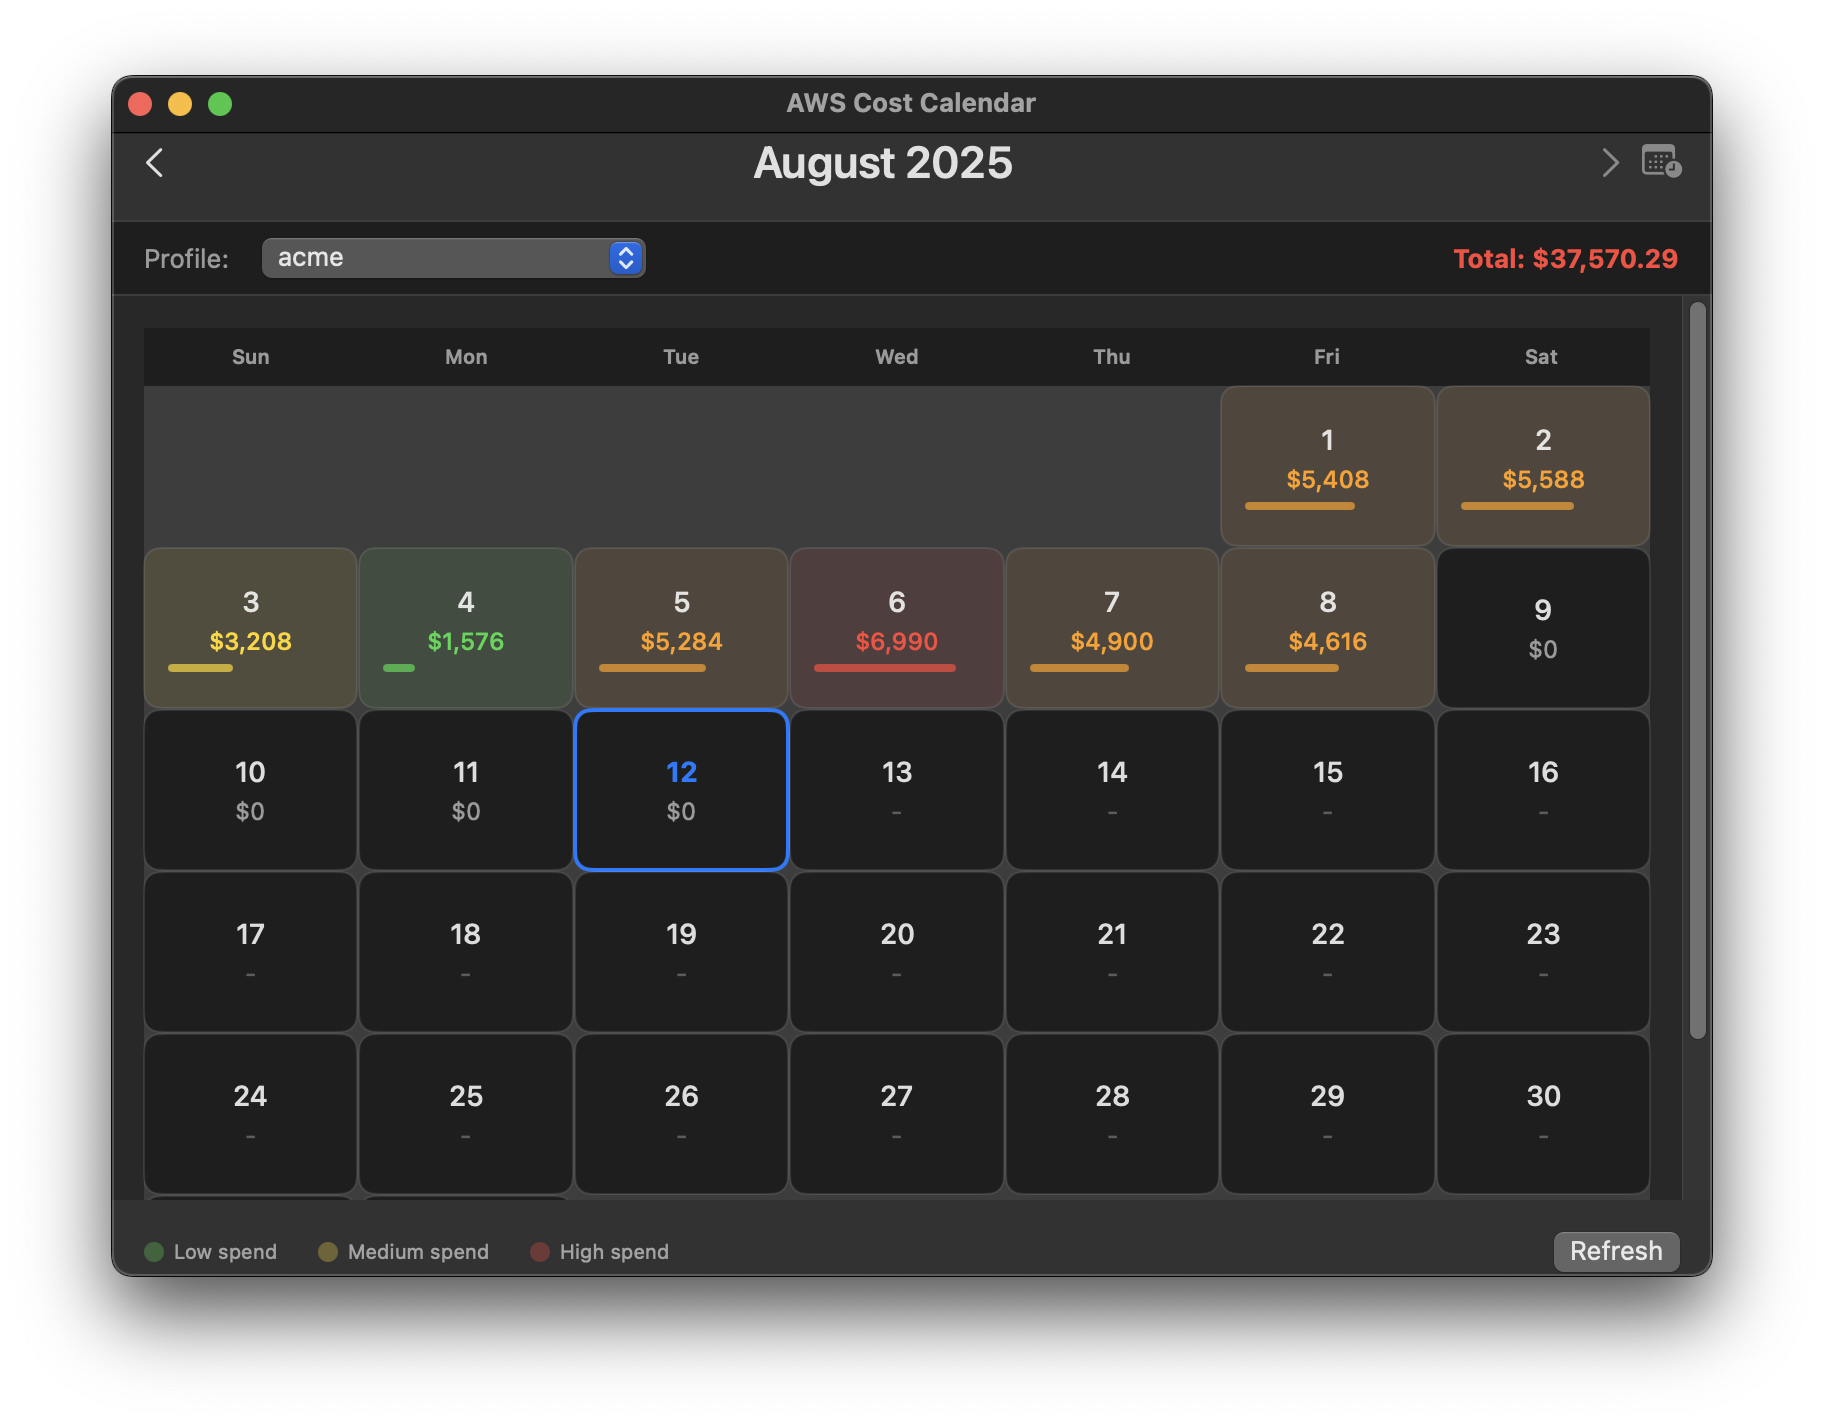
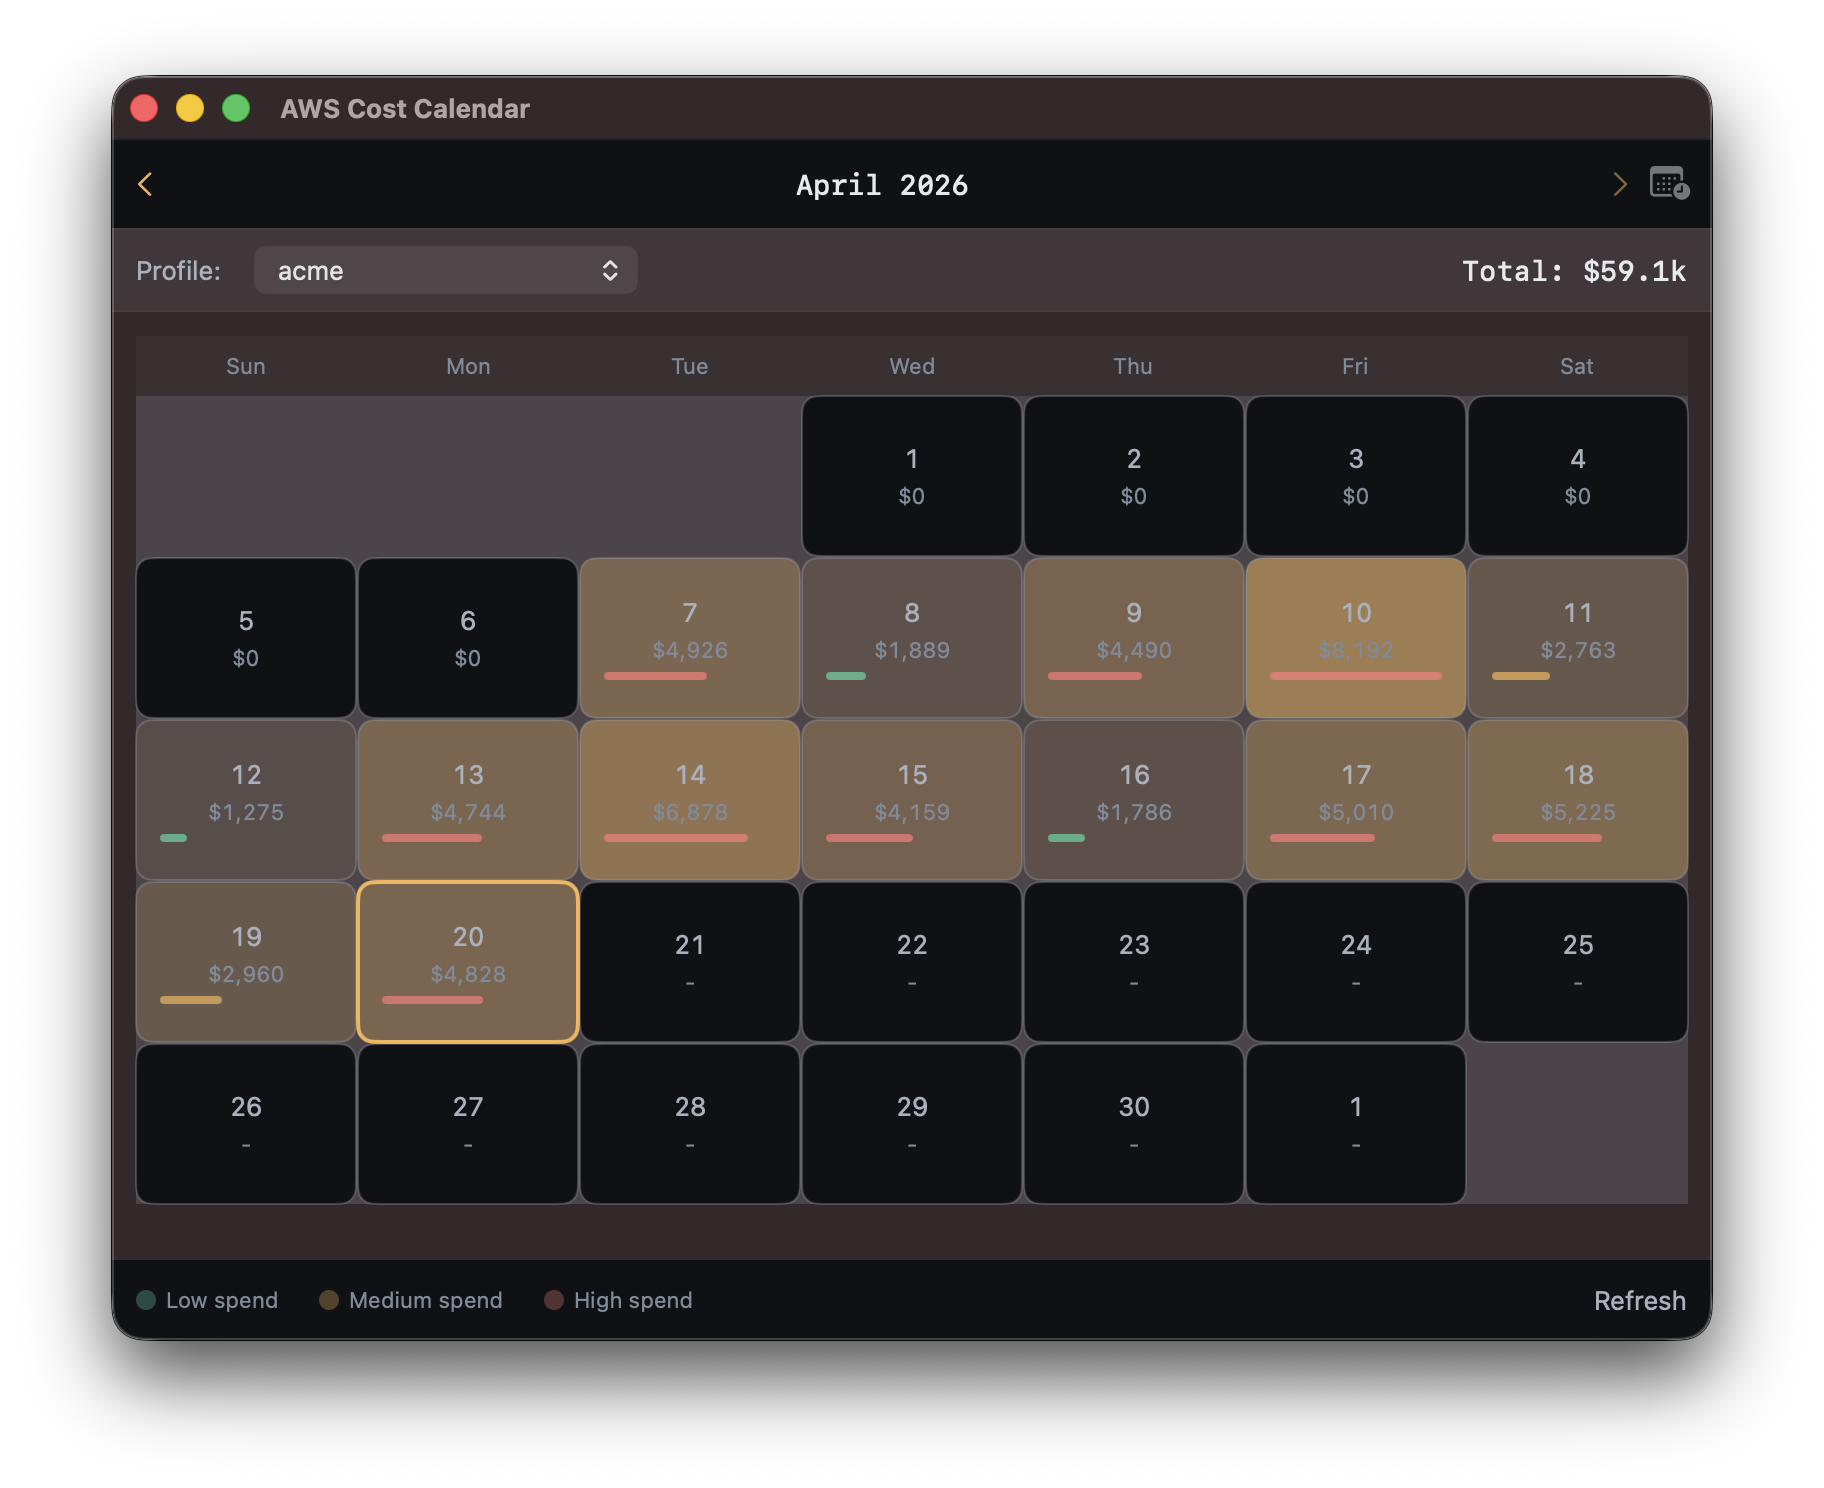
chore(website): refresh screenshot gallery for v1.5 (Ledger)
Replace outdated screenshots with Ledger-era captures and retarget the
gallery entries to match the new appearance tab and menu-bar pill.

- Re-shoot main-interface, calendar-view, day-detail-donut,
  settings-refresh-rate, help-getting-started
- Add menubar-pill (accent-themed chip with sparkline)
- Add settings-appearance (Ledger's four-axis appearance tab)
- Remove settings-display-format (superseded by settings-appearance)
- Remove stale image.png
- ImageMagick -strip + compression-level=9 shaves ~36% off PNG sizes

diff --git a/packages/website/src/components/Screenshots.jsx b/packages/website/src/components/Screenshots.jsx
@@ -27,20 +27,28 @@ const screenshots = [
     features: ["Interactive donut charts", "Click histogram bars for daily view", "Service cost breakdown", "Smart service grouping"]
   },
   {
+    title: "Menu Bar Pill with Sparkline",
+    description: "An at-a-glance MTD chip in your menu bar, accent-colored with an inline 14-day sparkline and luminance-aware ink that stays legible on any background",
+    image: "/AWSCostMonitor/screenshots/menubar-pill.png",
+    width: 2000,
+    height: 1125,
+    features: ["Accent-colored pill", "Inline 14-day sparkline", "Auto black/white ink"]
+  },
+  {
     title: "Settings - Refresh Rate",
-    description: "Configure intelligent refresh rates based on your budget and spending patterns",
+    description: "Configure a per-profile refresh interval. Auto-refresh is always on and each profile tracks its own last-fetch.",
     image: "/AWSCostMonitor/screenshots/settings-refresh-rate.png",
     width: 2000,
     height: 1125,
-    features: ["Smart refresh rates", "API usage tracking", "Budget-based polling"]
+    features: ["Per-profile interval", "Budget-aware tightening", "Always-on refresh"]
   },
   {
-    title: "Settings - Display Format",
-    description: "Customize how costs appear in your menu bar with various formatting options",
-    image: "/AWSCostMonitor/screenshots/settings-display-format.png",
+    title: "Settings - Appearance",
+    description: "Tune Ledger's four independent axes — Accent, Density, Contrast, and Color Scheme — from a single consolidated tab",
+    image: "/AWSCostMonitor/screenshots/settings-appearance.png",
     width: 2000,
     height: 1125,
-    features: ["Currency formatting", "Display modes", "Visual customization"]
+    features: ["Four orthogonal axes", "WCAG AAA contrast mode", "Accent: Amber / Mint / Plasma / Bone / System"]
   },
   {
     title: "Help & Getting Started",
